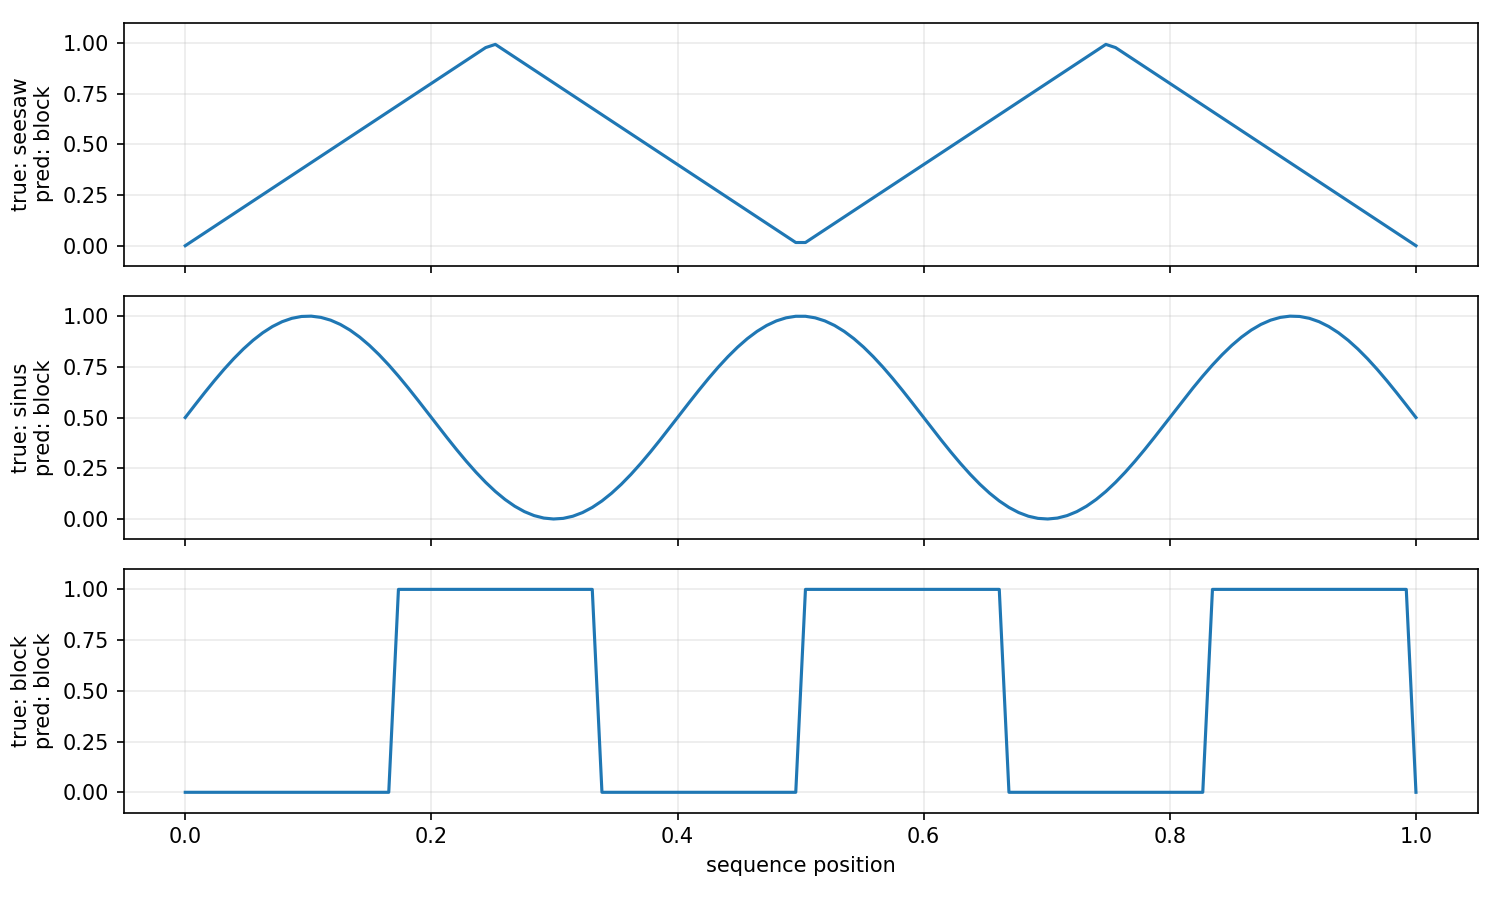
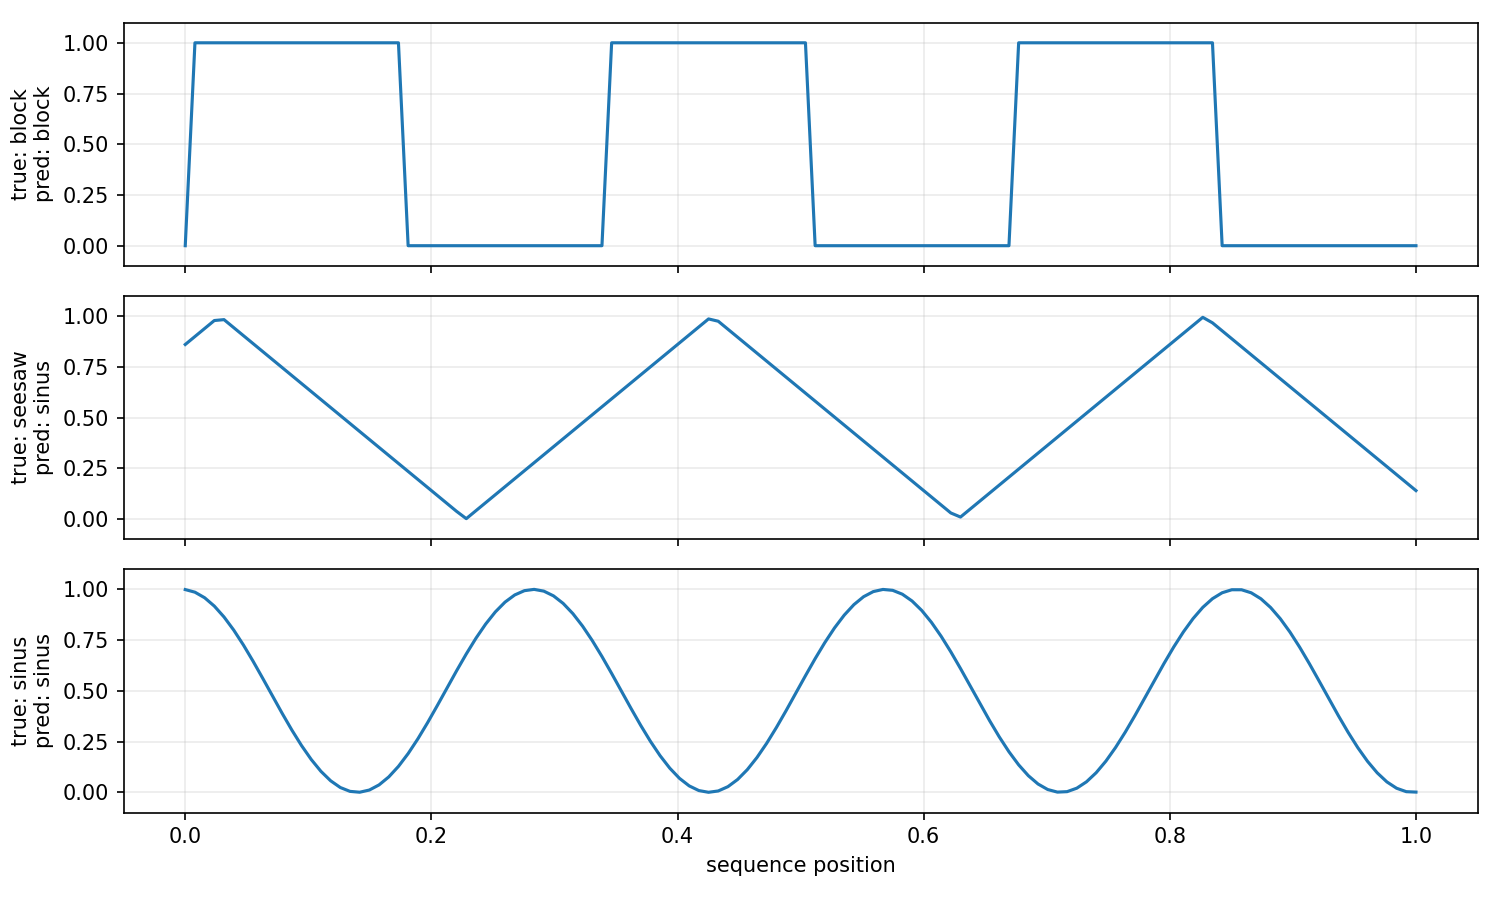
add validation set to single_led_classification and set output_dim to 32

diff --git a/single_led_classification.py b/single_led_classification.py
@@ -1,14 +1,17 @@
+import copy
 from pathlib import Path
 
 import matplotlib.pyplot as plt
 import torch
 from torch import nn
-from torch.utils.data import DataLoader, TensorDataset
+from torch.utils.data import DataLoader, TensorDataset, random_split
 
 from s5 import SingleLEDSSM
 
 
-SEQUENCE_LENGTH = 128
+SEQUENCE_LENGTH = 128 # nr of timesteps in the LED intensity sequence. Each step is one scalar value.
+STATE_WIDTH = 32 # hidden state width of the SSM
+OUTPUT_DIM = 32 # output dimension of the SSM, which is fed into the classifier
 CLASS_NAMES = ("seesaw", "sinus", "block")
 
 
@@ -43,19 +46,19 @@ def make_dataset(
 
 
 class LEDWaveformClassifier(nn.Module):
-    def __init__(self, sequence_length: int = SEQUENCE_LENGTH):
+    def __init__(self, state_width: int = STATE_WIDTH, output_dim: int = OUTPUT_DIM):
         super().__init__()
-        self.led_ssm = SingleLEDSSM(state_width=32)
+        self.led_ssm = SingleLEDSSM(state_width=state_width, output_dim=output_dim) #state_width = hidden state width of 32 for the SSM
         self.classifier = nn.Sequential(
-            nn.Linear(sequence_length, 64),
-            nn.GELU(),
-            nn.Linear(64, len(CLASS_NAMES)),
+            nn.Linear(output_dim, 64), # takes the input vector and transforms it into 64 features
+            nn.GELU(), # applies non lin activation function
+            nn.Linear(64, len(CLASS_NAMES)), # hidden layer with 64 features to output layer with number of classes
         )
 
     def forward(self, led_intensity: torch.Tensor) -> torch.Tensor:
         # led_intensity has shape [batch, sequence]: one scalar LED value per step.
         ssm_output = self.led_ssm(led_intensity)
-        return self.classifier(ssm_output)
+        return self.classifier(ssm_output[:, -1, :]) # [B, output_dim] - take the last output of the SSM for classification
 
 
 def evaluate(
@@ -130,21 +133,33 @@ def main() -> None:
     torch.manual_seed(7)
     device = torch.device("cuda" if torch.cuda.is_available() else "cpu")
 
-    train_signals, train_labels = make_dataset(600)
-    test_signals, test_labels = make_dataset(300)
+    all_signals, all_labels = make_dataset(900)
+    full_dataset = TensorDataset(all_signals, all_labels)
+    train_dataset, validation_dataset, test_dataset = random_split(
+        full_dataset,
+        [600, 150, 150],
+        generator=torch.Generator().manual_seed(7),
+    )
+
     train_loader = DataLoader(
-        TensorDataset(train_signals, train_labels),
+        train_dataset,
         batch_size=32,
         shuffle=True,
     )
+    validation_loader = DataLoader(
+        validation_dataset,
+        batch_size=64,
+    )
     test_loader = DataLoader(
-        TensorDataset(test_signals, test_labels),
+        test_dataset,
         batch_size=64,
     )
 
     model = LEDWaveformClassifier().to(device)
     optimizer = torch.optim.Adam(model.parameters(), lr=1e-2)
     loss_function = nn.CrossEntropyLoss()
+    best_validation_accuracy = -1.0
+    best_model_state = None
 
     for epoch in range(60):
         model.train()
@@ -155,18 +170,35 @@ def main() -> None:
             loss.backward()
             optimizer.step()
 
+        validation_loss, validation_accuracy = evaluate(
+            model,
+            validation_loader,
+            device,
+        )
+        if validation_accuracy > best_validation_accuracy:
+            best_validation_accuracy = validation_accuracy
+            best_model_state = copy.deepcopy(model.state_dict())
+
         if (epoch + 1) % 10 == 0:
-            test_loss, test_accuracy = evaluate(model, test_loader, device)
             print(
                 f"epoch {epoch + 1}: "
-                f"test loss = {test_loss:.4f}, "
-                f"test accuracy = {test_accuracy:.2%}"
+                f"validation loss = {validation_loss:.4f}, "
+                f"validation accuracy = {validation_accuracy:.2%}"
             )
 
-    _, test_accuracy = evaluate(model, test_loader, device)
+    if best_model_state is None:
+        raise RuntimeError("Training did not produce a validation checkpoint")
+    model.load_state_dict(best_model_state)
+
+    test_loss, test_accuracy = evaluate(model, test_loader, device)
     print(f"device: {device}")
-    print(f"final test accuracy: {test_accuracy:.2%}")
+    print(f"best validation accuracy: {best_validation_accuracy:.2%}")
+    print(f"test loss: {test_loss:.4f}")
+    print(f"test accuracy: {test_accuracy:.2%}")
     export_parameters(model)
+    test_indices = test_dataset.indices
+    test_signals = all_signals[test_indices]
+    test_labels = all_labels[test_indices]
     plot_examples(model, test_signals[:3], test_labels[:3], device)
 
 

diff --git a/s5/s5_model.py b/s5/s5_model.py
@@ -125,7 +125,7 @@ def as_complex(t: torch.Tensor, dtype=torch.complex64):
 Initialization = Literal['dense_columns', 'dense', 'factorized']
 
 
-class S5SSM(torch.nn.Module):
+class S5SSM(torch.nn.Module):   
     def __init__(self, lambdaInit: torch.Tensor,
                  V: torch.Tensor, Vinv: torch.Tensor, h: int, p: int,
                  dt_min: float,
@@ -361,7 +361,7 @@ class SingleLEDSSM(torch.nn.Module):
     def __init__(
         self,
         state_width: int,
-        output_dim: int = 1,
+        output_dim: int = 32,
         dt_min: float = 0.001,
         dt_max: float = 0.1,
         discretization: Literal['zoh', 'bilinear'] = 'zoh',
